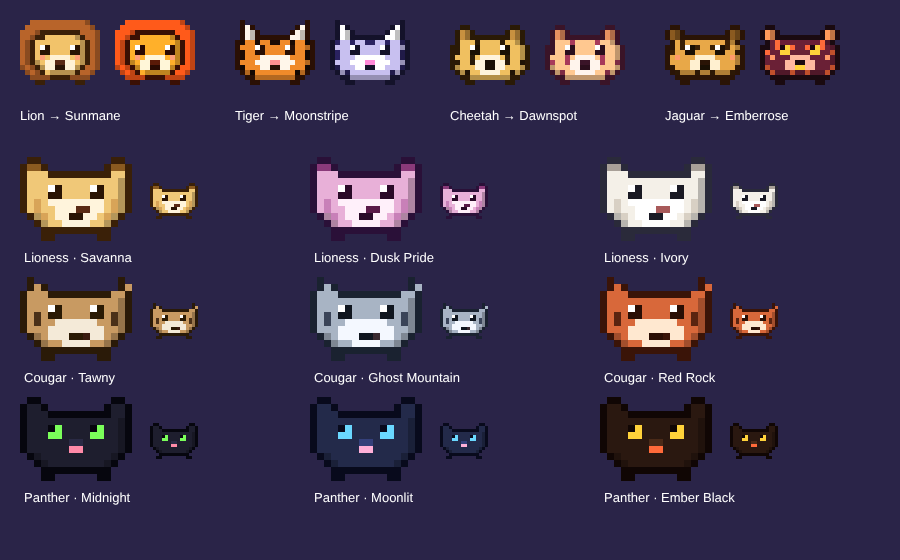
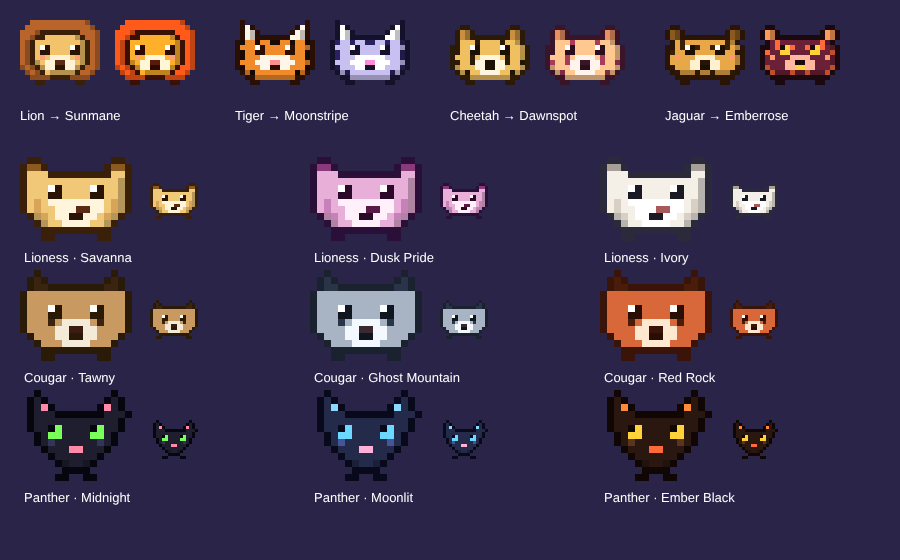
Redraw Panther (V-face, tall ears) and Cougar (pointed ears, tear marks)
Claude-Session: https://claude.ai/code/session_01PmzgbFANnQnt42wWbsr6rQ

diff --git a/docs/pride/sprites-draft.js b/docs/pride/sprites-draft.js
@@ -25,37 +25,37 @@ const NEW = {
       { name: "Dusk Pride", o: "#2a1038", b: "#e8b0d8", a: "#8a3a7a", m: "#c880b8", l: "#fff0fa", n: "#5a1a48", e: "#2a0a28", f: "#2a1038" },
       { name: "Ivory", o: "#2a2a3a", b: "#f4f0e8", a: "#a8a098", m: "#d8d0c4", l: "#ffffff", n: "#a85a5a", e: "#1a1a24", f: "#2a2a3a" } ] },
   Cougar: { eyes: 5, mouth: true, feet: F4, body: [
-      "................",
-      ".o............o.",
-      ".obo..........obo".slice(0,16),
-      "obbbooooooooobbo",
-      "obbbbbbbbbbbbbBo",
-      "obbbbbbbbbbbbbBo",
-      "obtbbbbbbbbbbtBo",
-      "obtbbllllllbbtBo",
-      "obbbllllllllbbBo",
-      ".oBbllllnnllbBo.",
-      "..oBbbllllbbBo..",
+      "..o..........o..",
+      ".oto........oto.",
+      ".ottooooooootto.",
+      "obbbbbbbbbbbbbbo",
+      "obbbbbbbbbbbbbbo",
+      "obbbbbbbbbbbbbbo",
+      "obbbbbbbbbbbbbbo",
+      "obbbtbllllbtbbbo",
+      "obbbbllnnllbbbbo",
+      ".obbbllllllbbbo.",
+      "..obbbllllbbbo..",
       "...oooooooooo..." ],
     colors: [
-      { name: "Tawny", o: "#2a1a08", b: "#c89a62", t: "#4a3018", l: "#f4ead8", n: "#3a1c10", e: "#2a1a04", f: "#2a1a08" },
-      { name: "Ghost Mountain", o: "#1a2230", b: "#a8b4c4", t: "#3a4458", l: "#f4f8ff", n: "#3a2a30", e: "#10161f", f: "#1a2230" },
-      { name: "Red Rock", o: "#3a1408", b: "#d8683a", t: "#5a2410", l: "#ffe8d0", n: "#3a1408", e: "#2a0e04", f: "#3a1408" } ] },
-  Panther: { eyes: 5, mouth: false, feet: F4, body: [
-      "................",
-      ".oo..........oo.",
-      "obbo........obbo",
-      "obbbooooooooobbo",
-      "obbbbbbbbbbbbbBo",
-      "obbbbbbbbbbbbbBo",
-      "obbbbbbbbbbbbbBo",
-      "obbbbbbrrbbbbbBo",
-      "obbbbbbnnbbbbbBo",
-      ".oBbbbbbbbbbbBo.",
-      "..oBbbbbbbbbBo..",
-      "...oooooooooo..." ],
+      { name: "Tawny", o: "#2a1a08", b: "#c89a62", t: "#3a2410", l: "#f4ead8", n: "#3a1c10", e: "#2a1a04", f: "#2a1a08" },
+      { name: "Ghost Mountain", o: "#1a2230", b: "#a8b4c4", t: "#2a3448", l: "#f4f8ff", n: "#3a2a30", e: "#10161f", f: "#1a2230" },
+      { name: "Red Rock", o: "#3a1408", b: "#d8683a", t: "#4a1c0a", l: "#ffe8d0", n: "#3a1408", e: "#2a0e04", f: "#3a1408" } ] },
+  Panther: { eyes: 5, mouth: false, feet: { stand: ".....oo..oo.....", walk1: "....oo....oo....", walk2: "......oo.oo.....", air: ".....o....o....." }, body: [
+      "..o..........o..",
+      ".obo........obo.",
+      ".obio......oibo.",
+      ".obbbooooooobbbo",
+      ".obbbbbbbbbbbbo.",
+      ".obbbbbbbbbbbbo.",
+      "..obbbbbbbbbbo..",
+      "..obrbbbbbbrbo..",
+      "...obbbnnbbbo...",
+      "....obbbbbbo....",
+      ".....oBbbBo.....",
+      "......oooo......" ],
     colors: [
-      { name: "Midnight", o: "#06060e", b: "#1e1e2e", r: "#2a2a44", n: "#ff8aa8", e: "#7aff5a", f: "#06060e" },
-      { name: "Moonlit", o: "#080a1c", b: "#232a4a", r: "#34407a", n: "#ffb0d8", e: "#6ad8ff", f: "#080a1c" },
-      { name: "Ember Black", o: "#100604", b: "#2a1810", r: "#4a2a18", n: "#ff6a3a", e: "#ffd23a", f: "#100604" } ] },
+      { name: "Midnight", o: "#06060e", b: "#1e1e2e", r: "#34345a", i: "#ff8aa8", n: "#ff8aa8", e: "#7aff5a", f: "#06060e" },
+      { name: "Moonlit", o: "#080a1c", b: "#232a4a", r: "#46549a", i: "#8ad8ff", n: "#ffb0d8", e: "#6ad8ff", f: "#080a1c" },
+      { name: "Ember Black", o: "#100604", b: "#2a1810", r: "#5a3420", i: "#ff8a3a", n: "#ff6a3a", e: "#ffd23a", f: "#100604" } ] },
 };
